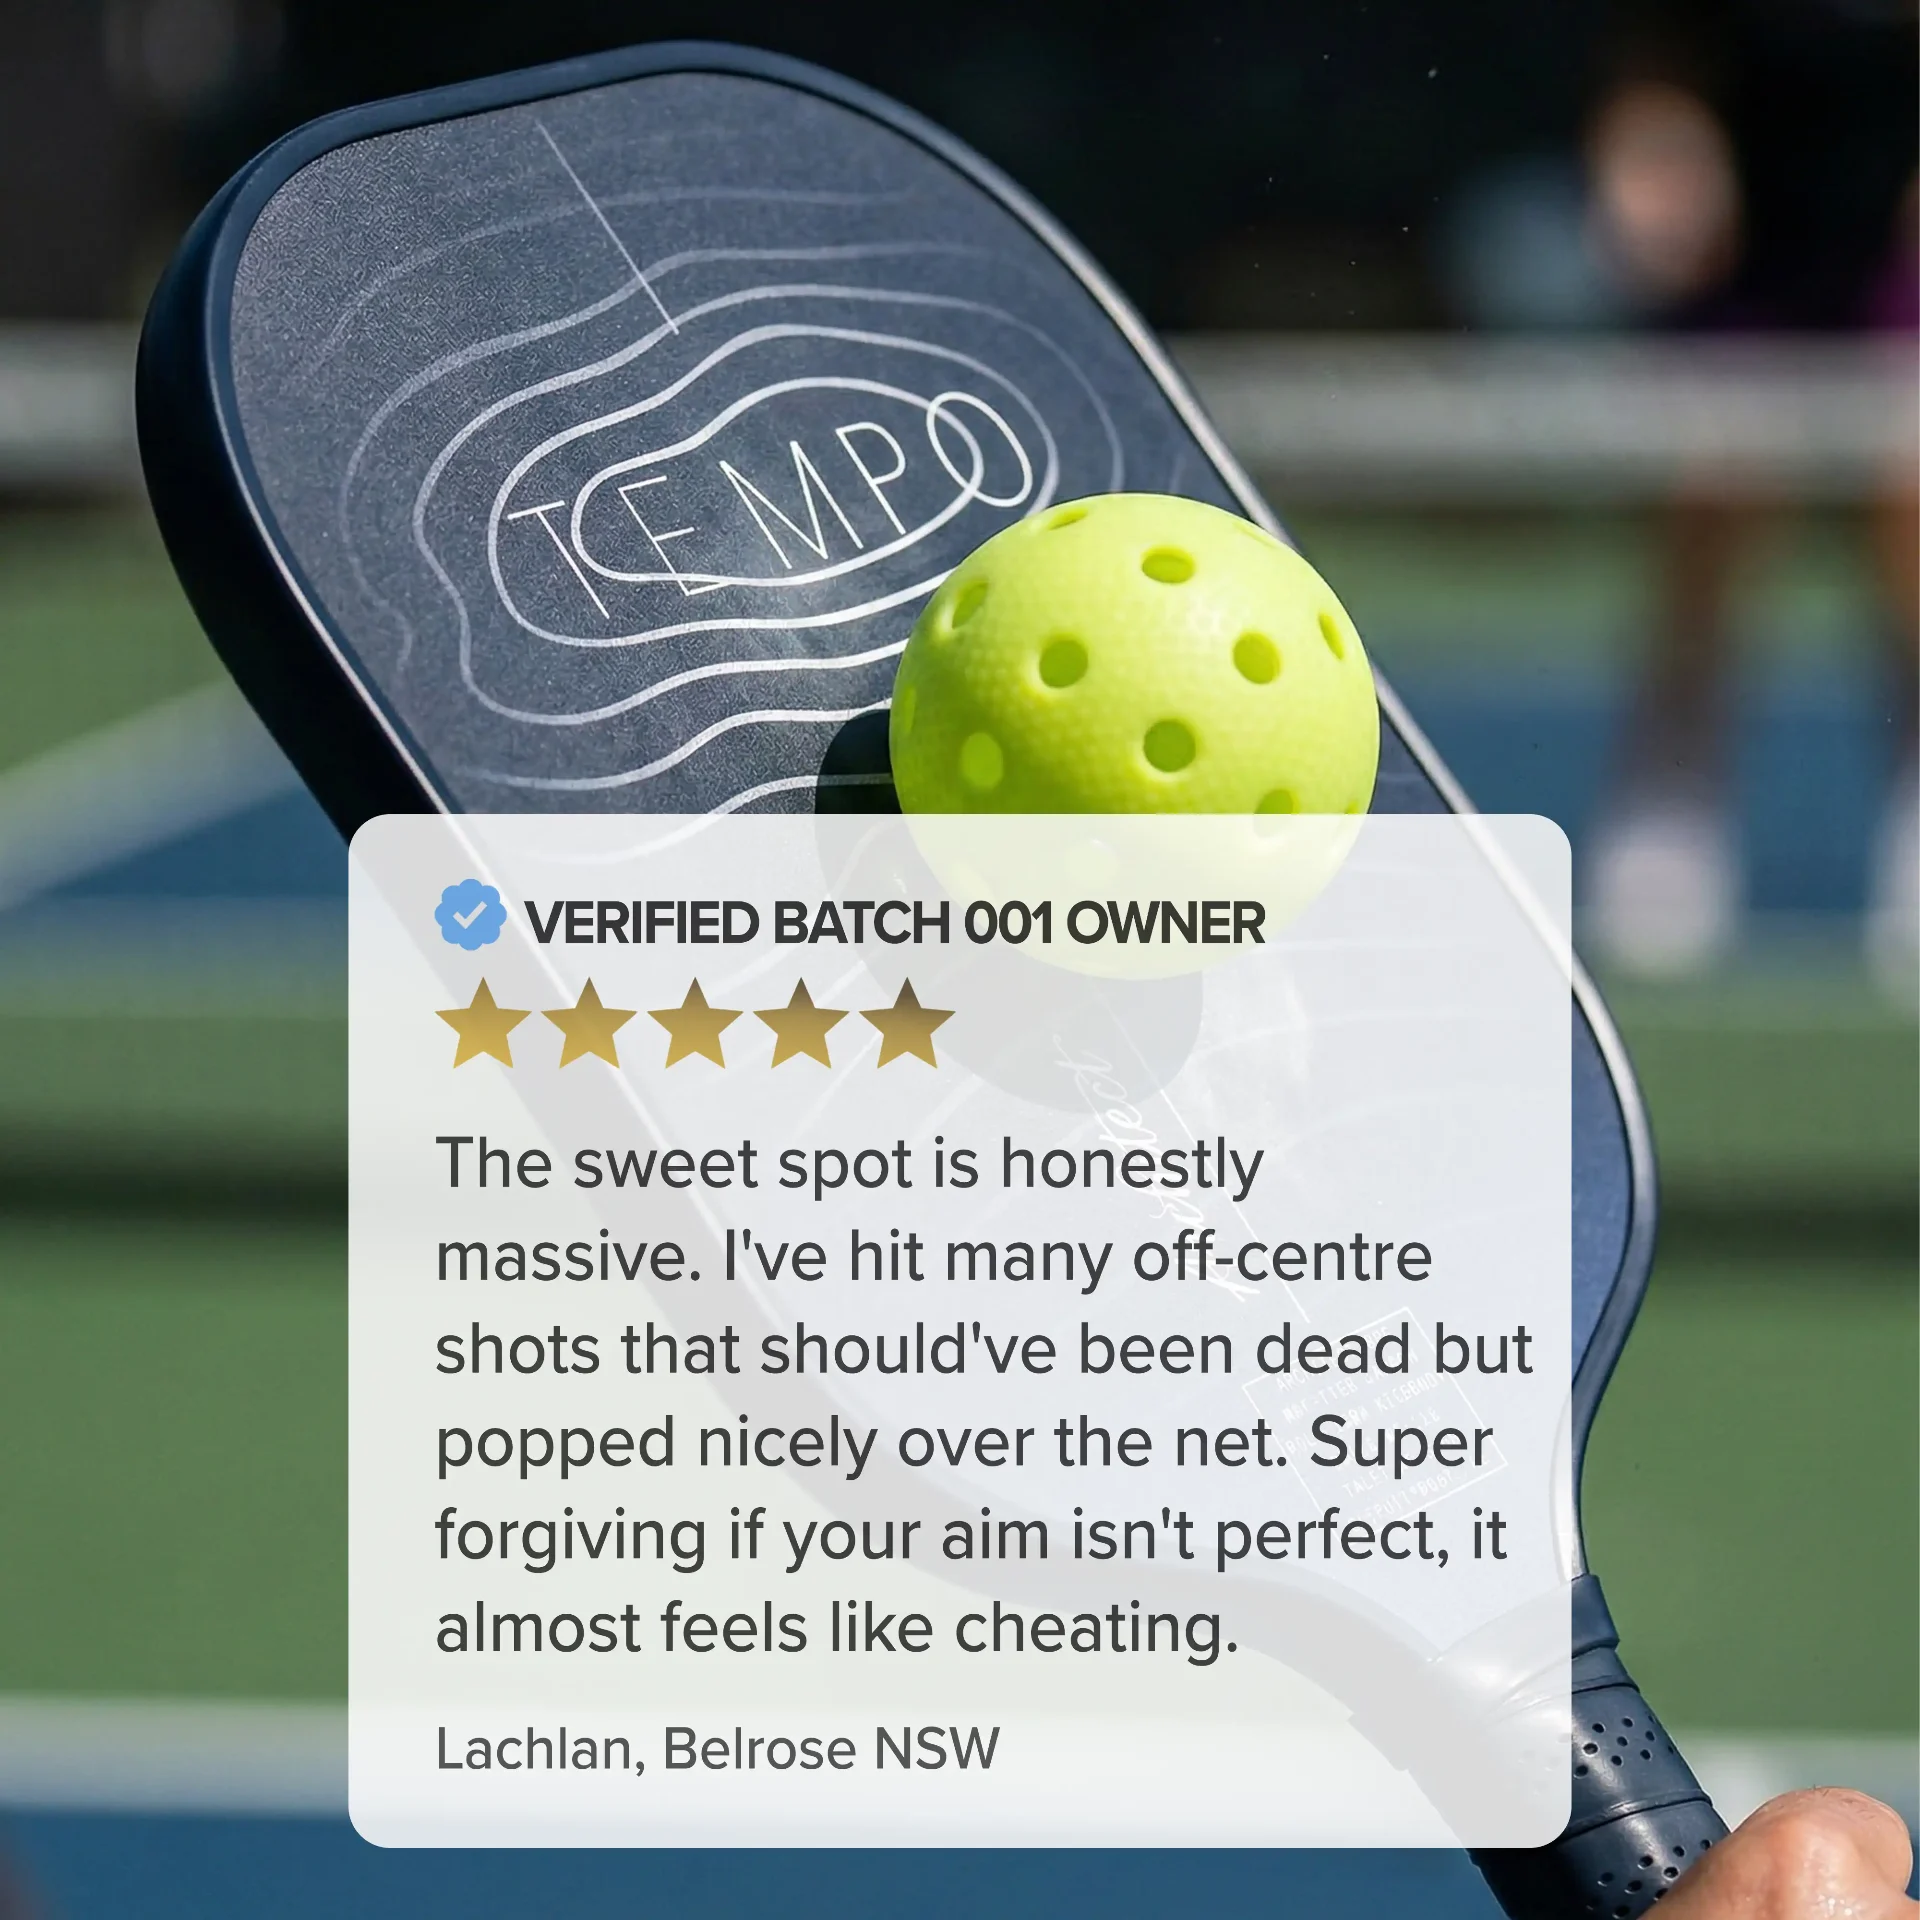
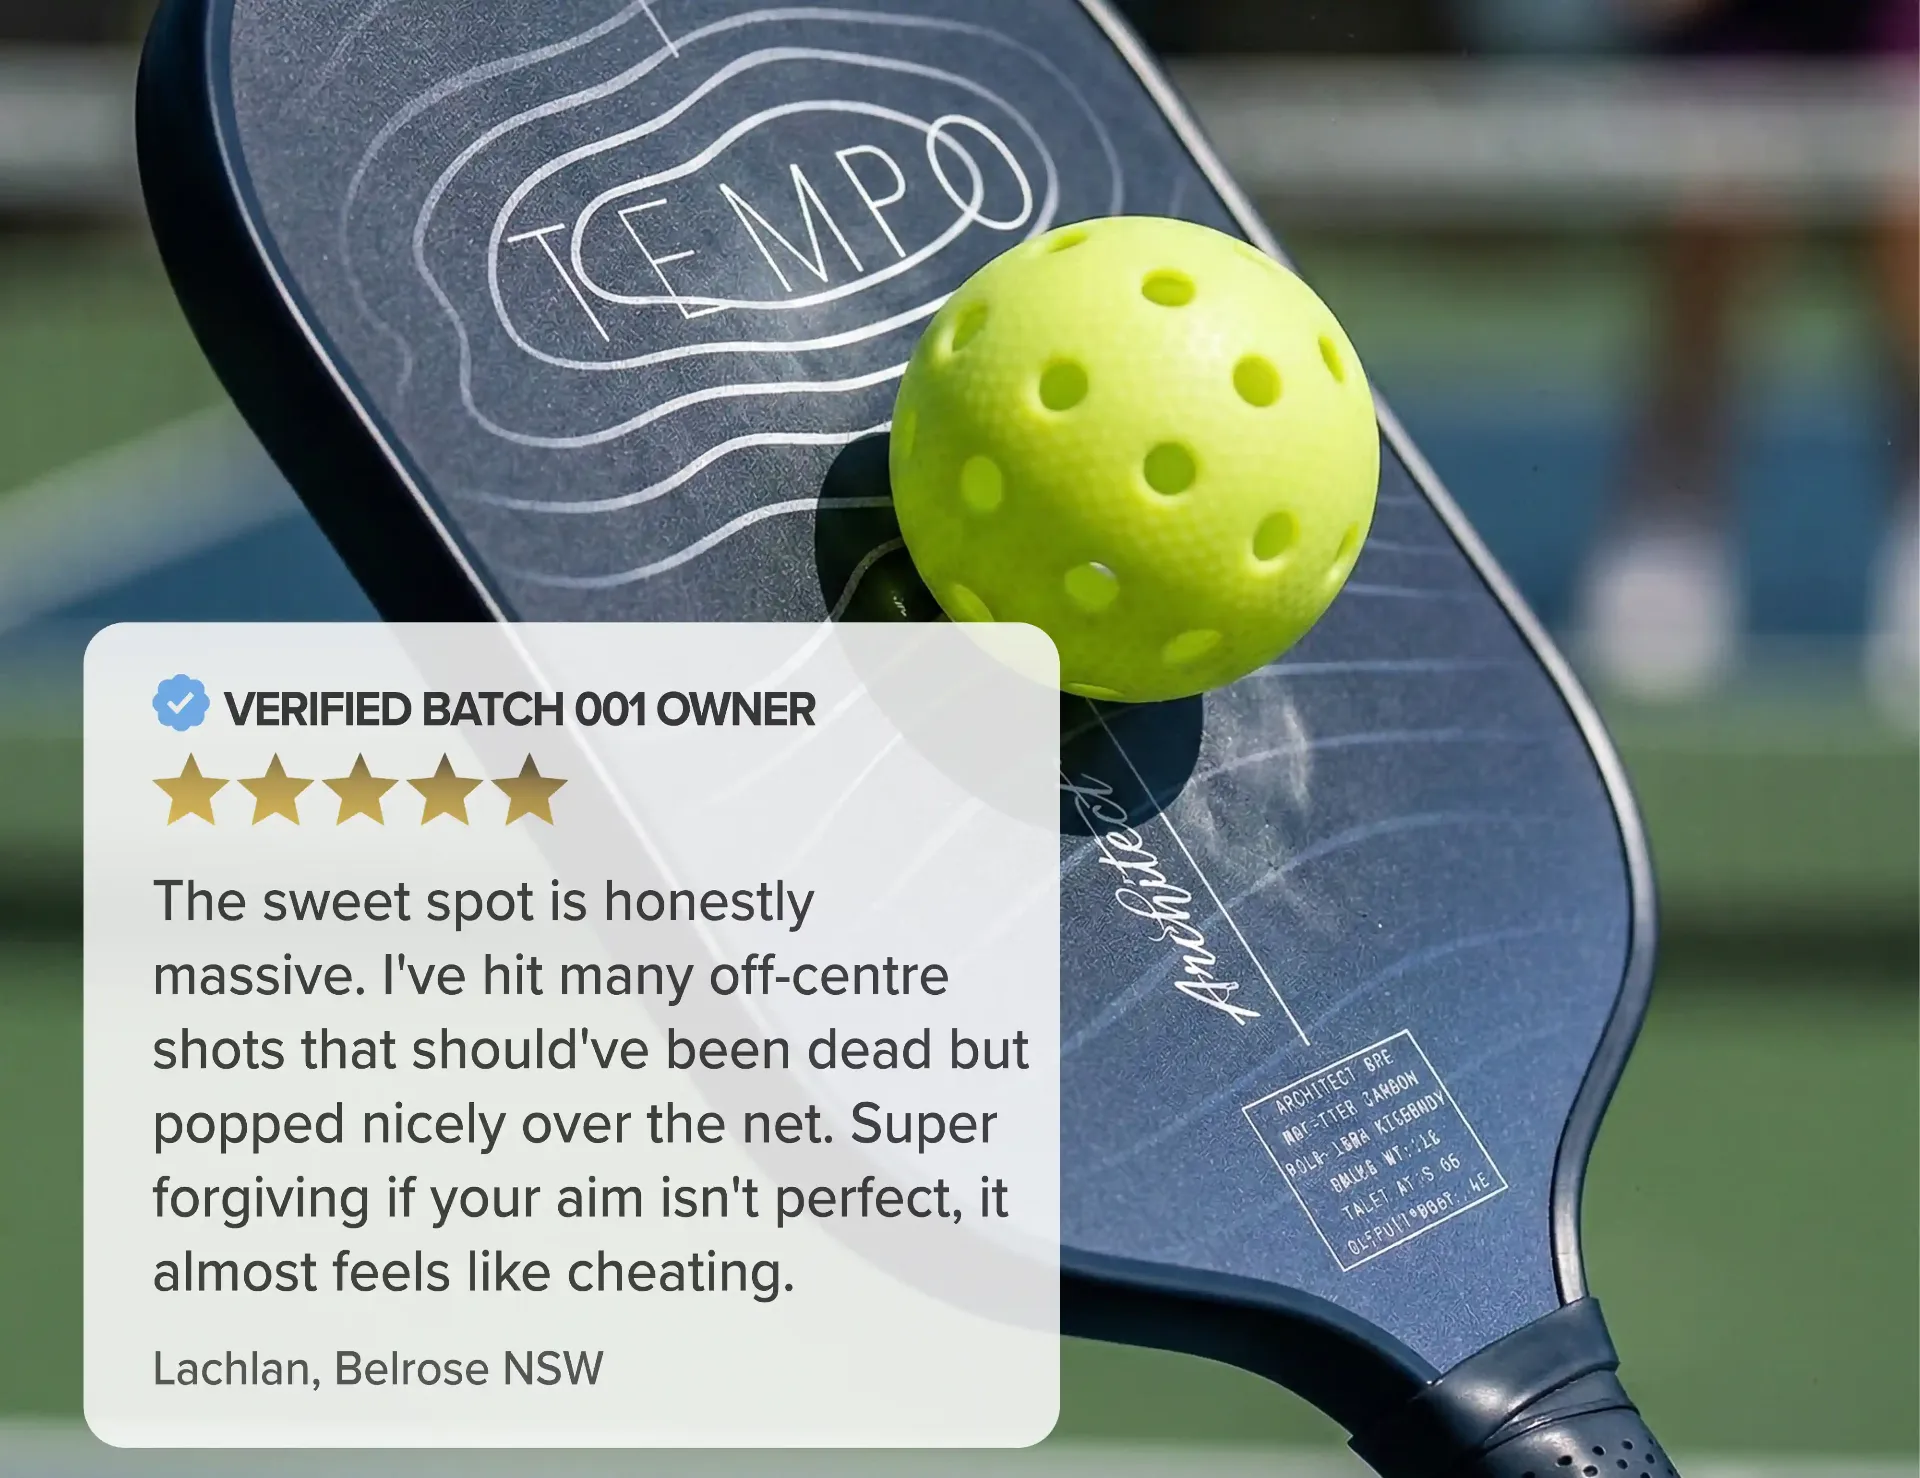
Changes

diff --git a/src/components/sections/WhyArchitectSection.tsx b/src/components/sections/WhyArchitectSection.tsx
@@ -276,7 +276,7 @@ const WhyArchitectSection = () => {
 
           {/* RIGHT — Image panel: 70% width, square (1:1 aspect ratio) */}
           <div className="w-full lg:w-[70%]">
-            <div className="relative w-full rounded-2xl overflow-hidden" style={{ aspectRatio: "1 / 1" }}>
+            <div className="relative w-full rounded-2xl overflow-hidden" style={{ aspectRatio: "4 / 3" }}>
               {/* Image with crossfade */}
               <AnimatePresence mode="wait">
                 <motion.img
